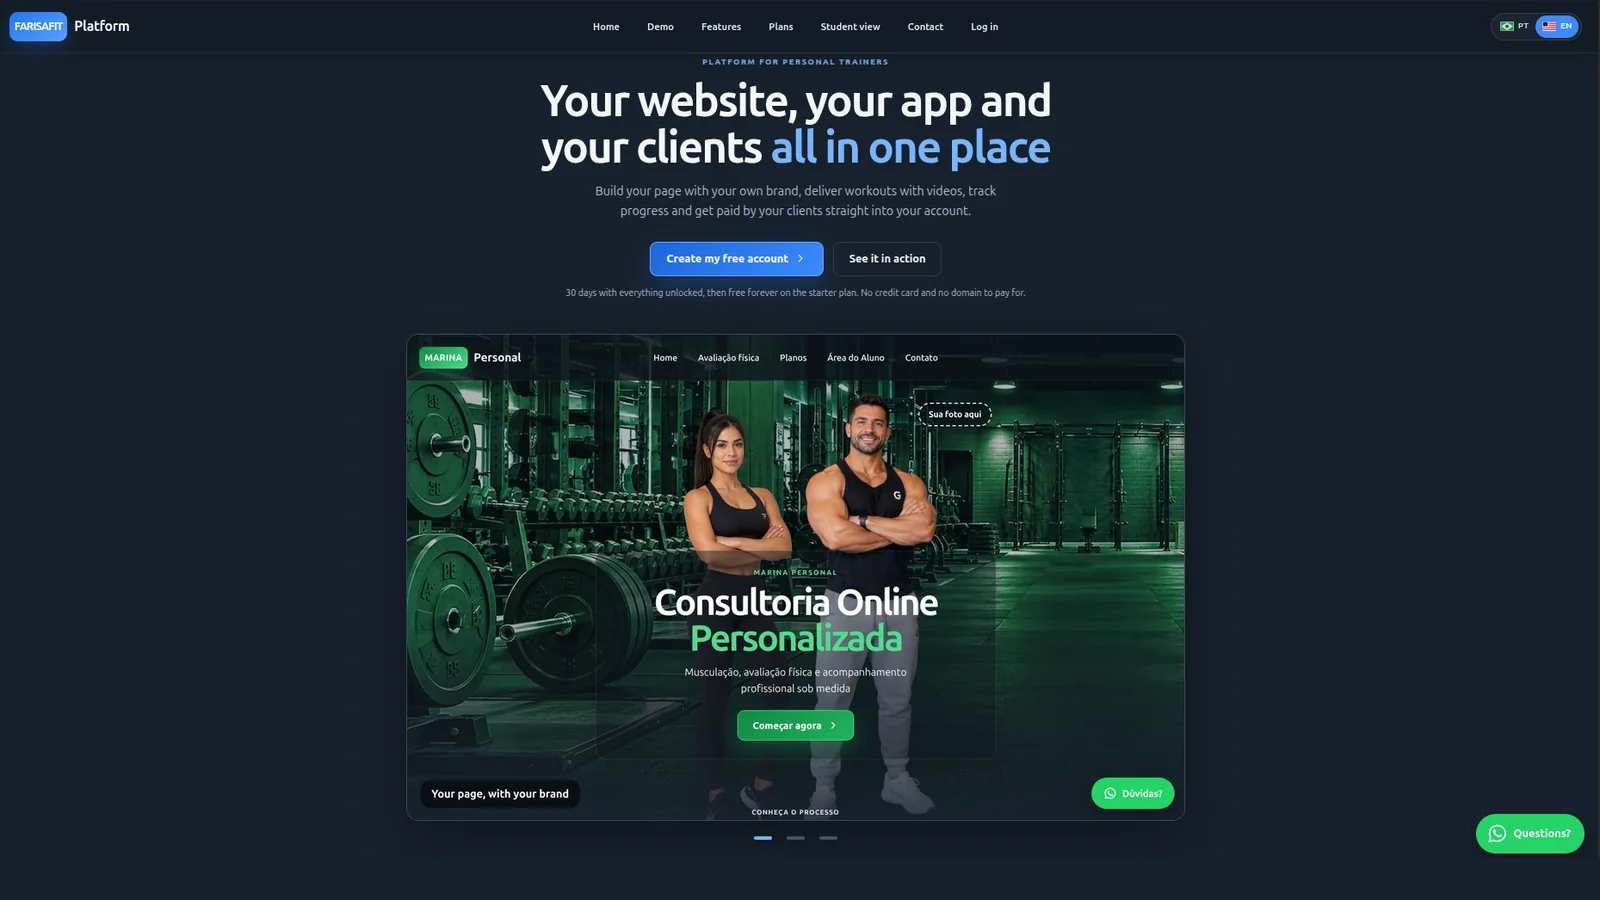
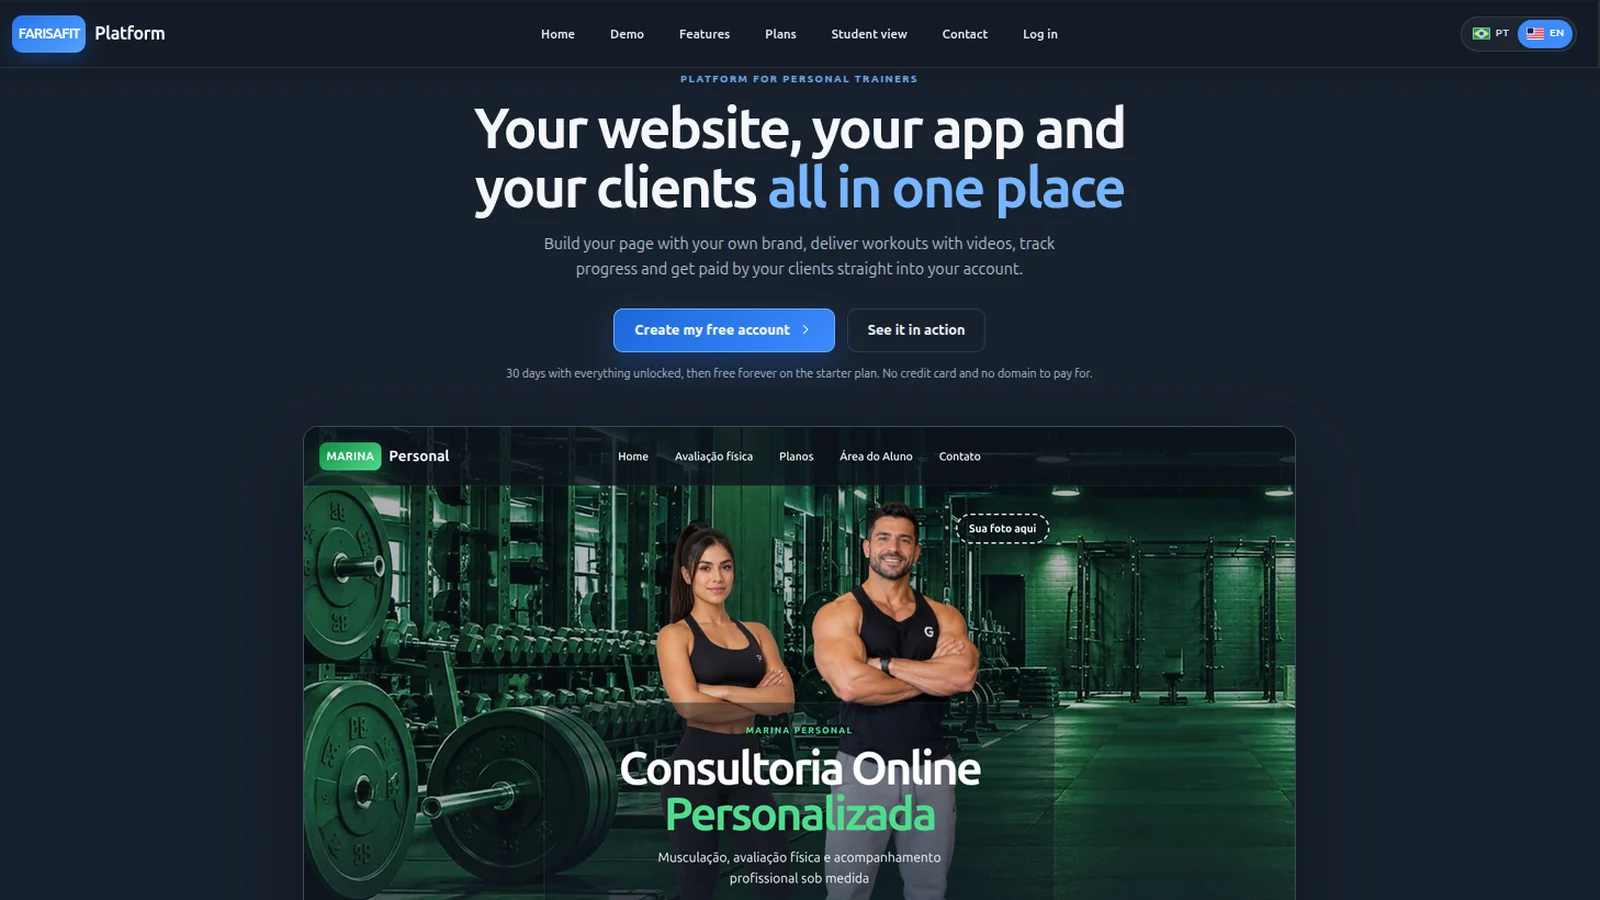
Card FARISAFIT com mais zoom e barbearia como SaaS em desenvolvimento

diff --git a/src/data/projects.js b/src/data/projects.js
@@ -13,6 +13,7 @@ export const projectCategories = [
 // Em imagePosition, escolha: 'center', 'top', 'bottom', 'left' ou 'right'.
 // Use hidden: true para esconder um projeto que ainda não está pronto.
 // O campo en guarda a versão em inglês (type, description, imageAlt).
+// Use status: 'Em desenvolvimento' para mostrar um selo na imagem do card.
 // Cole o endereço publicado de cada trabalho em demoUrl.
 // Exemplo: demoUrl: 'https://meu-projeto.pages.dev'
 export const projects = [
@@ -214,12 +215,13 @@ export const projects = [
   {
     id: 'frs-barbearia',
     title: 'FRS Barbearia',
-    type: 'Sistema de agendamento para barbearia',
+    type: 'SaaS para barbearias',
+    status: 'Em desenvolvimento',
     description:
-      'Agenda online com escolha de profissional e serviço, controle de horários e confirmação de atendimento pelo WhatsApp.',
+      'Plataforma para barbearias com agenda online, escolha de serviço e horário, proteção contra reservas no mesmo horário, fila de espera e painel para agenda, serviços e promoções.',
     category: 'web-app',
     year: '2026',
-    tags: ['React', 'Node.js', 'Express.js', 'PostgreSQL'],
+    tags: ['HTML', 'CSS', 'JavaScript', 'Vite', 'Cloudflare Workers', 'Cloudflare D1', 'SQL'],
     image: '/images/projects/frs-barbearia-hero.webp',
     imageAlt: 'Hero do site FRS Barbearia com barbeiro cortando cabelo de cliente e chamada Seu estilo. Nossa assinatura.',
     imageFit: 'cover',
@@ -229,9 +231,10 @@ export const projects = [
     demoUrl: 'https://frs-barbearia.fabioribeirodev.workers.dev/',
     repositoryUrl: '',
     en: {
-      type: 'Barbershop booking system',
+      type: 'SaaS for barbershops',
+      status: 'In development',
       description:
-        'Online booking with barber and service selection, schedule management and appointment confirmation via WhatsApp.',
+        'Platform for barbershops with online booking, service and time selection, double-booking protection, a waitlist and an admin panel for schedule, services and promotions.',
       imageAlt: "Hero of the FRS Barbershop website with a barber cutting a client's hair",
     },
   },

diff --git a/index.html b/index.html
@@ -6,7 +6,7 @@
     <meta name="theme-color" content="#0b0d0c" />
     <meta property="og:type" content="website" />
     <meta property="og:title" content="Fábio — Desenvolvedor Full Stack" />
-    <meta property="og:description" content="Do front-end ao back-end: sites, landing pages e aplicações web com entrega bem-feita." />
+    <meta property="og:description" content="Desenvolvedor Full Stack do front-end ao back-end: sites, landing pages, lojas virtuais e sistemas web com entrega bem-feita e segura." />
     <meta property="og:url" content="%VITE_SITE_URL%/" />
     <meta property="og:image" content="%VITE_SITE_URL%/og.jpg" />
     <meta property="og:image:width" content="1200" />
@@ -15,7 +15,7 @@
     <meta property="og:locale" content="pt_BR" />
     <meta name="twitter:card" content="summary_large_image" />
     <meta name="twitter:title" content="Fábio — Desenvolvedor Full Stack" />
-    <meta name="twitter:description" content="Do front-end ao back-end: sites, landing pages e aplicações web com entrega bem-feita." />
+    <meta name="twitter:description" content="Desenvolvedor Full Stack do front-end ao back-end: sites, landing pages, lojas virtuais e sistemas web com entrega bem-feita e segura." />
     <meta name="twitter:image" content="%VITE_SITE_URL%/og.jpg" />
     <link rel="icon" type="image/svg+xml" href="/images/logo-fs.svg" />
     <link rel="manifest" href="/manifest.webmanifest" />

diff --git a/src/style.css b/src/style.css
@@ -654,6 +654,35 @@ img { display: block; max-width: 100%; }
   padding: 0;
 }
 
+/* Selo de status no card (ex.: Em desenvolvimento) */
+.project-card__status {
+  position: absolute;
+  z-index: 2;
+  top: 14px;
+  left: 14px;
+  display: inline-flex;
+  align-items: center;
+  gap: 8px;
+  padding: 7px 12px;
+  border: 1px solid rgb(199 255 69 / 45%);
+  border-radius: 999px;
+  color: var(--accent);
+  background: rgb(11 13 12 / 82%);
+  font: .68rem var(--font-mono);
+  letter-spacing: .06em;
+  text-transform: uppercase;
+  backdrop-filter: blur(6px);
+}
+
+.project-card__status::before {
+  content: '';
+  width: 7px;
+  height: 7px;
+  border-radius: 50%;
+  background: var(--accent);
+  box-shadow: 0 0 0 3px rgb(199 255 69 / 18%);
+}
+
 .project-card__visual.has-image .project-card__image {
   position: absolute;
   inset: 0;

diff --git a/src/components/project-card.js b/src/components/project-card.js
@@ -27,6 +27,13 @@ export function createProjectCard(projectTemplate, tagTemplate, project) {
     image.style.objectPosition = project.imagePosition || 'center'
   }
 
+  if (project.status) {
+    const badge = document.createElement('span')
+    badge.className = 'project-card__status'
+    badge.textContent = project.status
+    visual.append(badge)
+  }
+
   fragment.querySelector('[data-project-meta]').textContent = `${project.type} · ${project.year}`
   fragment.querySelector('[data-project-title]').textContent = project.title
   fragment.querySelector('[data-project-description]').textContent = project.description
